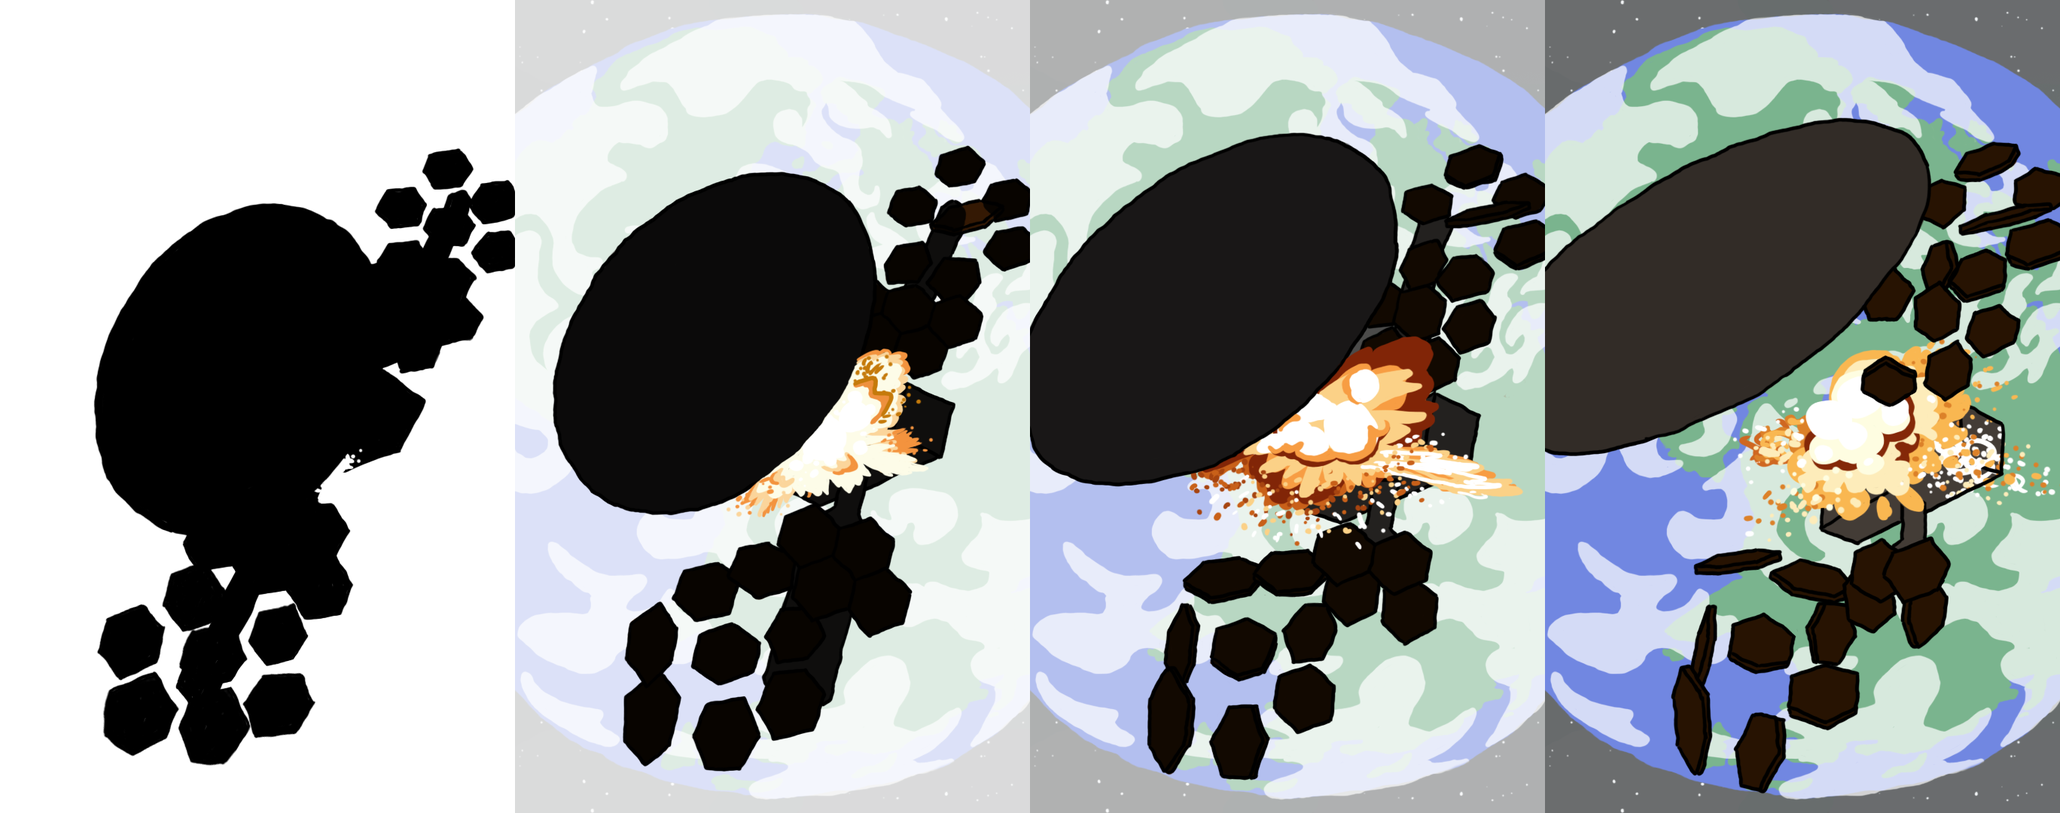
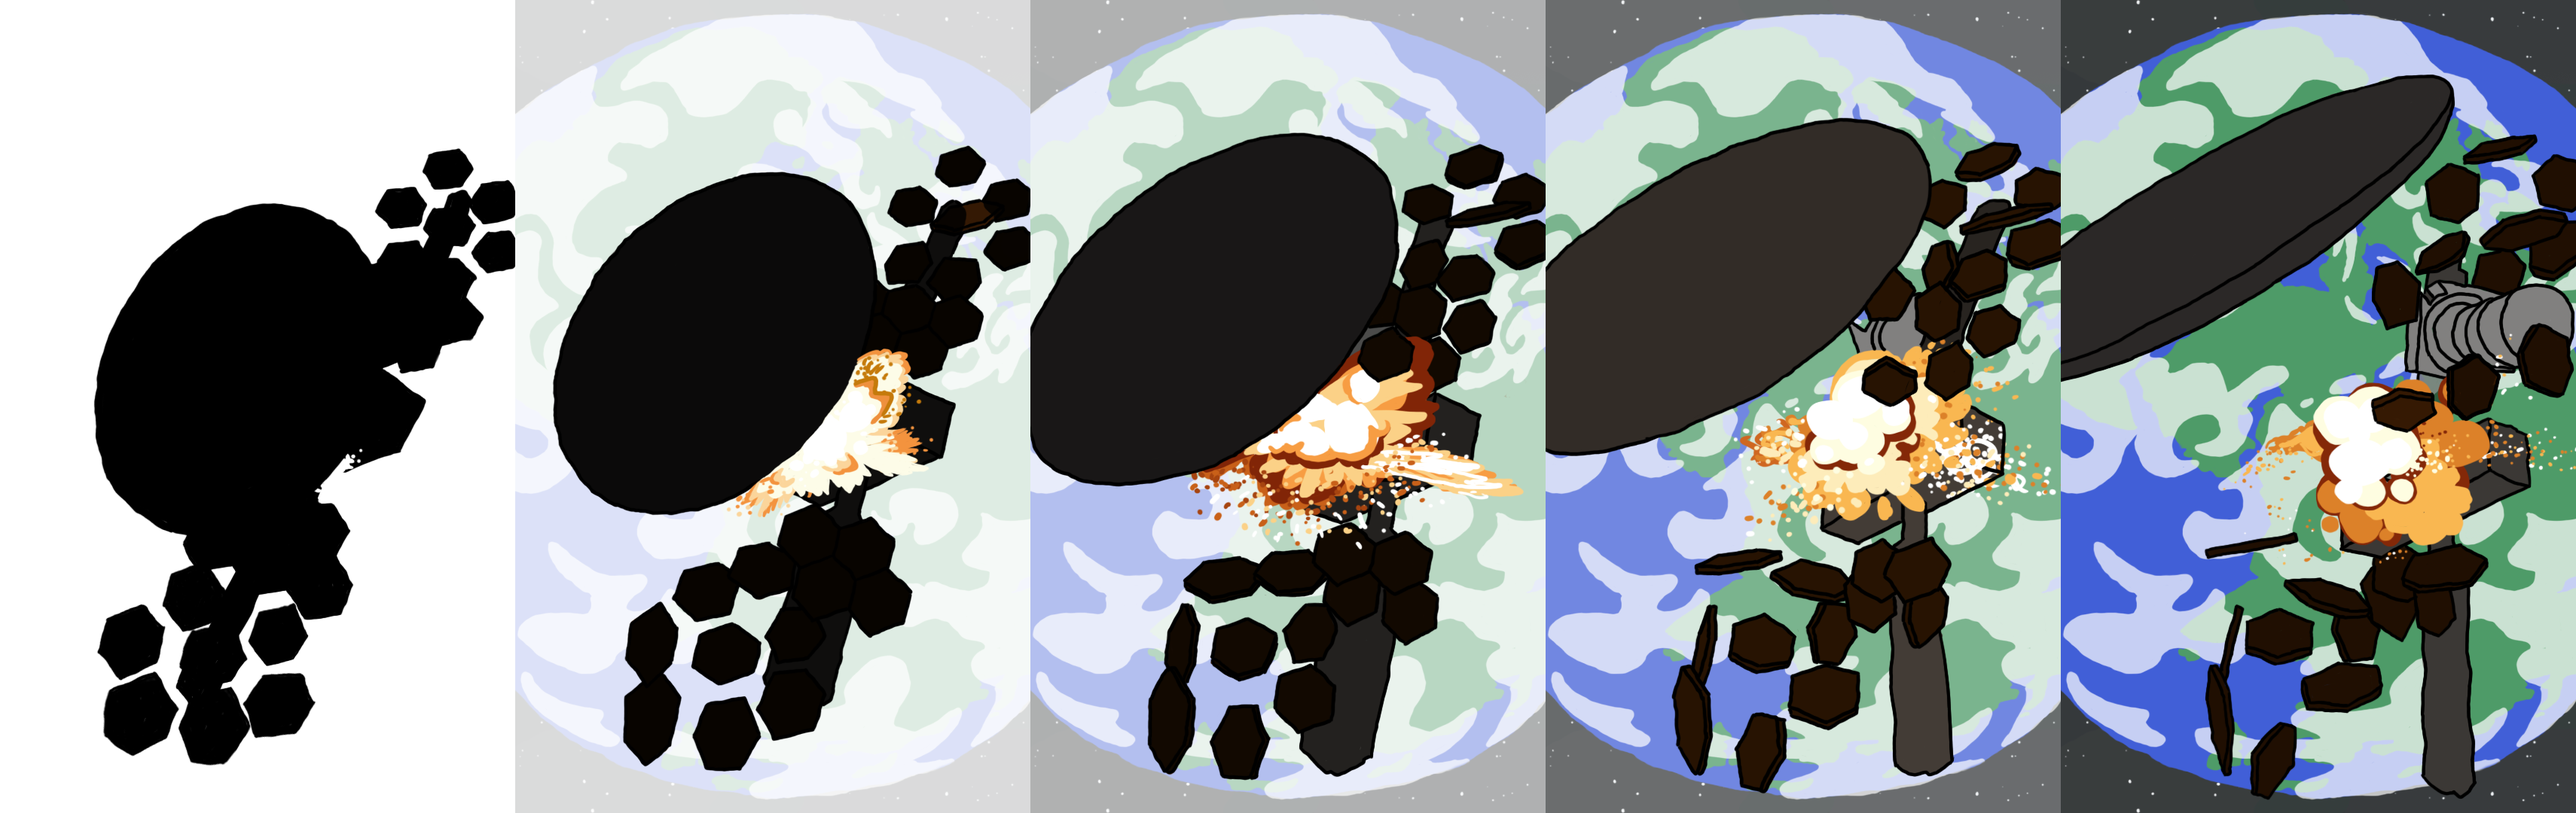
Extend explosion.

diff --git a/flipbook.js b/flipbook.js
@@ -143,7 +143,7 @@ let panels = [
     new Panel ({
       name: 'color-ten',
       imageSource: 'images/color-ten.png',
-      frames: 4
+      frames: 5
     }),
     new Panel ({
       name: 'color-eleven',
